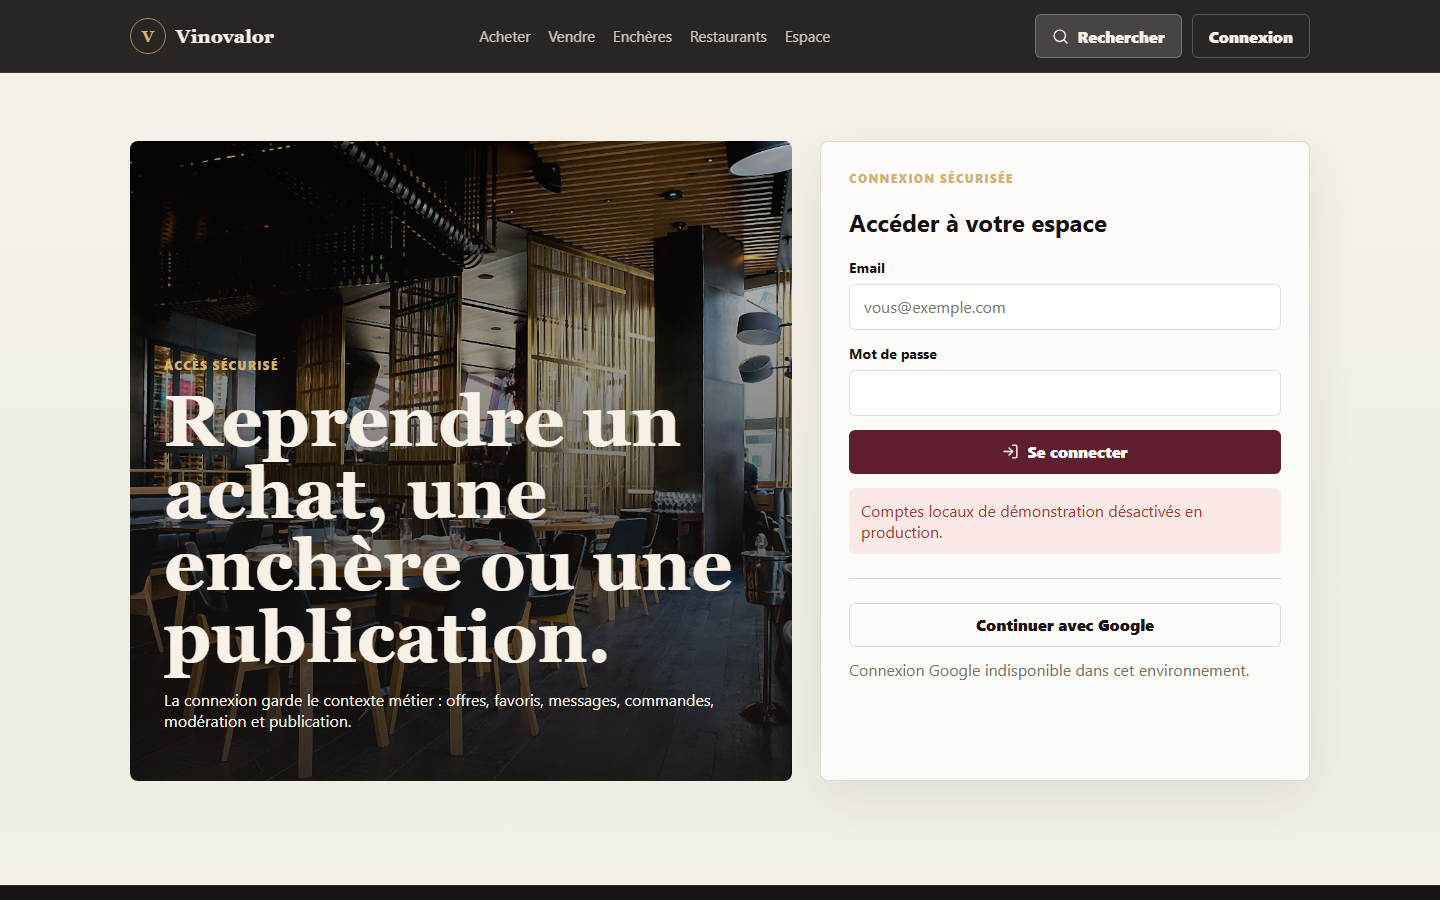
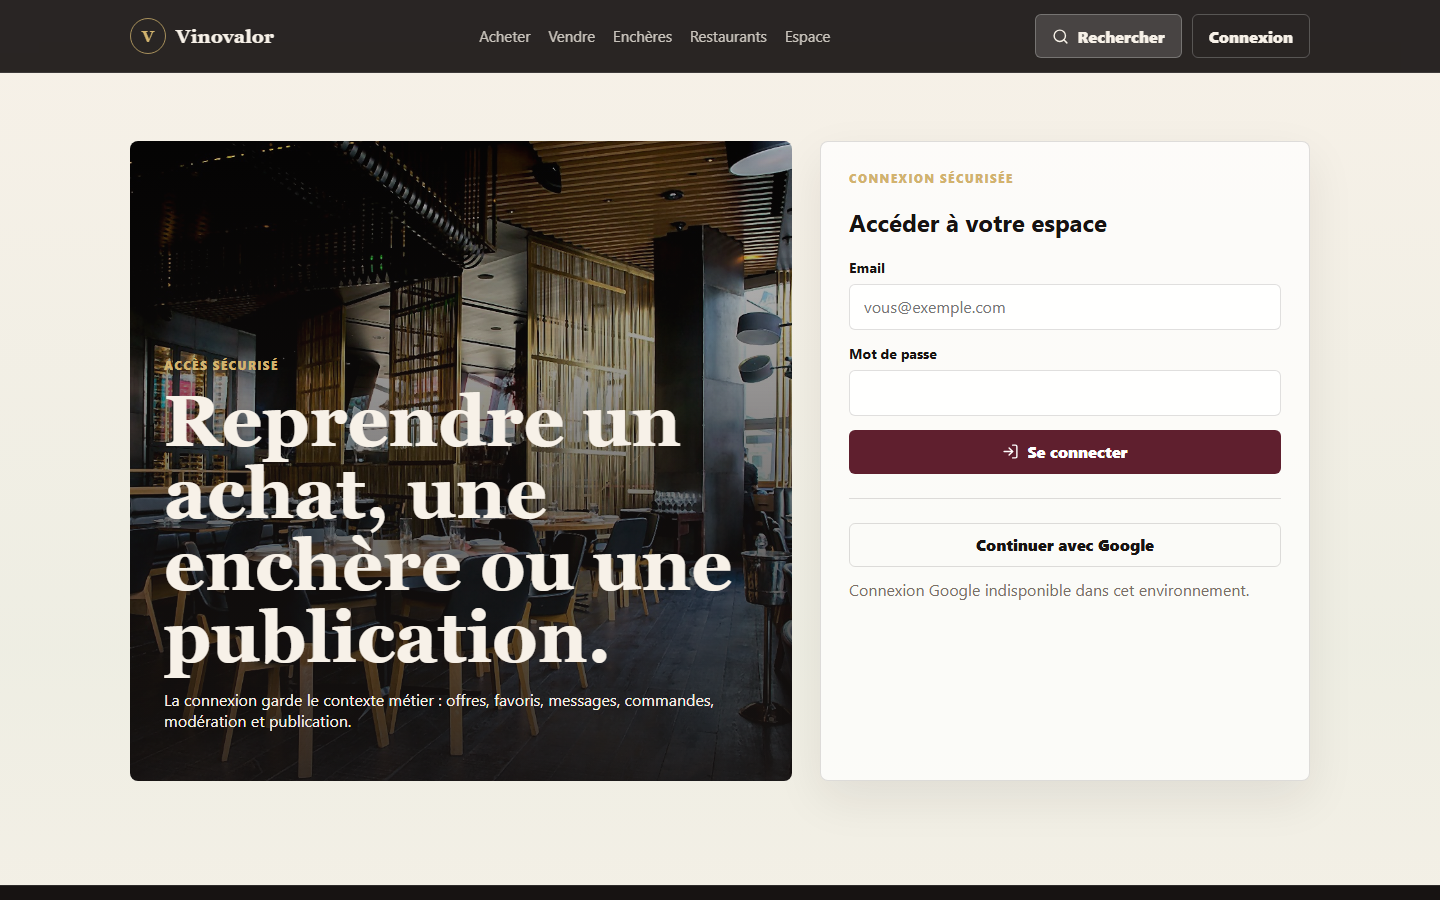
Restore local demo login for preview

Changed region(s): [[0.5938, 0.6533, 0.875, 0.7467], [0.5938, 0.56, 0.8438, 0.6222]]

diff --git a/tests/security.test.ts b/tests/security.test.ts
@@ -27,8 +27,18 @@ describe("sécurité applicative", () => {
     expect(() => assertSameOrigin(request)).toThrow(/cross-site|Origine/i);
   });
 
-  it("désactive les comptes credentials démo en production", async () => {
+  it("garde les comptes credentials démo actifs pour la preview publique", async () => {
     vi.stubEnv("NODE_ENV", "production");
+    vi.resetModules();
+
+    const { authOptions } = await import("@/lib/auth");
+
+    expect(authOptions.providers.some((provider) => provider.id === "credentials")).toBe(true);
+  });
+
+  it("permet de désactiver explicitement les comptes credentials démo", async () => {
+    vi.stubEnv("NODE_ENV", "production");
+    vi.stubEnv("DISABLE_LOCAL_CREDENTIALS", "true");
     vi.resetModules();
 
     const { authOptions } = await import("@/lib/auth");

diff --git a/src/components/AuthForm.tsx b/src/components/AuthForm.tsx
@@ -30,7 +30,7 @@ export function AuthForm({
       return;
     }
     if (!localEnabled) {
-      setMessage("Les comptes locaux de démonstration sont désactivés en production.");
+      setMessage("Les comptes locaux de démonstration sont désactivés sur ce déploiement.");
       return;
     }
 
@@ -75,7 +75,7 @@ export function AuthForm({
       ) : null}
       {authEnabled && !localEnabled ? (
         <p className="form-message form-message--error" role="alert">
-          Comptes locaux de démonstration désactivés en production.
+          Comptes locaux de démonstration désactivés sur ce déploiement.
         </p>
       ) : null}
       {message ? <p className="form-message form-message--error" role="alert">{message}</p> : null}

diff --git a/src/lib/auth.ts b/src/lib/auth.ts
@@ -35,7 +35,7 @@ seededAccounts.push({
 export const demoAccounts = seededAccounts.map(({ passwordHash: _passwordHash, ...account }) => account);
 
 const authSecret = process.env.NEXTAUTH_SECRET ?? process.env.AUTH_SECRET;
-const demoCredentialsAllowed = process.env.NODE_ENV !== "production";
+const demoCredentialsAllowed = process.env.DISABLE_LOCAL_CREDENTIALS !== "true";
 
 export function hasAuthSecret(): boolean {
   return Boolean(authSecret);

diff --git a/docs/SECURITY_REVIEW.md b/docs/SECURITY_REVIEW.md
@@ -2,7 +2,8 @@
 
 ## Contrôles Renforcés
 
-- Les comptes locaux de démonstration sont désactivés en production.
+- Les comptes locaux de démonstration sont actifs sur la preview publique à la demande du propriétaire du projet.
+- Ils peuvent être coupés sans changement de code avec `DISABLE_LOCAL_CREDENTIALS=true`.
 - Les utilisateurs OAuth reçoivent le rôle minimal `guest` par défaut, pas un rôle acheteur.
 - Les tentatives de connexion credentials sont soumises au rate limiting.
 - Les routes mutatives vérifient l'origine avant traitement.
@@ -15,7 +16,7 @@
 
 - Headers de sécurité.
 - Origine cross-site refusée.
-- Credentials provider désactivé en production.
+- Credentials provider actif pour la preview publique et désactivable par variable d'environnement.
 - Rôle OAuth par défaut `guest`.
 - Logout `GET` refusé, logout `POST` accepté, logout cross-site refusé.
 

diff --git a/docs/QA_REPORT.md b/docs/QA_REPORT.md
@@ -18,7 +18,7 @@ Le script `qa:visual` exécute une matrice desktop, laptop, tablette, mobile, mo
 ## Couverture Ciblée
 
 - Règles métier catalogue, prix, quantité, publication, RBAC, enchère et conversion en centimes.
-- Sécurité auth/logout, headers, origine, provider credentials production et rôle OAuth par défaut.
+- Sécurité auth/logout, headers, origine, provider credentials preview/désactivation explicite et rôle OAuth par défaut.
 - Navigation catalogue et filtres combinés.
 - Rendu visuel accueil, catalogue, fiche annonce, restaurants, enchères, vente, connexion, espace et admin.
 

diff --git a/README.md b/README.md
@@ -36,6 +36,7 @@ npm run dev
 Variables utiles : voir `.env.example`.
 
 Comptes locaux : tous les comptes locaux utilisent le mot de passe `demo2026!`.
+Sur la preview publique, ces comptes locaux sont volontairement actifs pour les tests. Pour les couper sans changer le code, définir `DISABLE_LOCAL_CREDENTIALS=true`.
 
 Compte administrateur local :
 